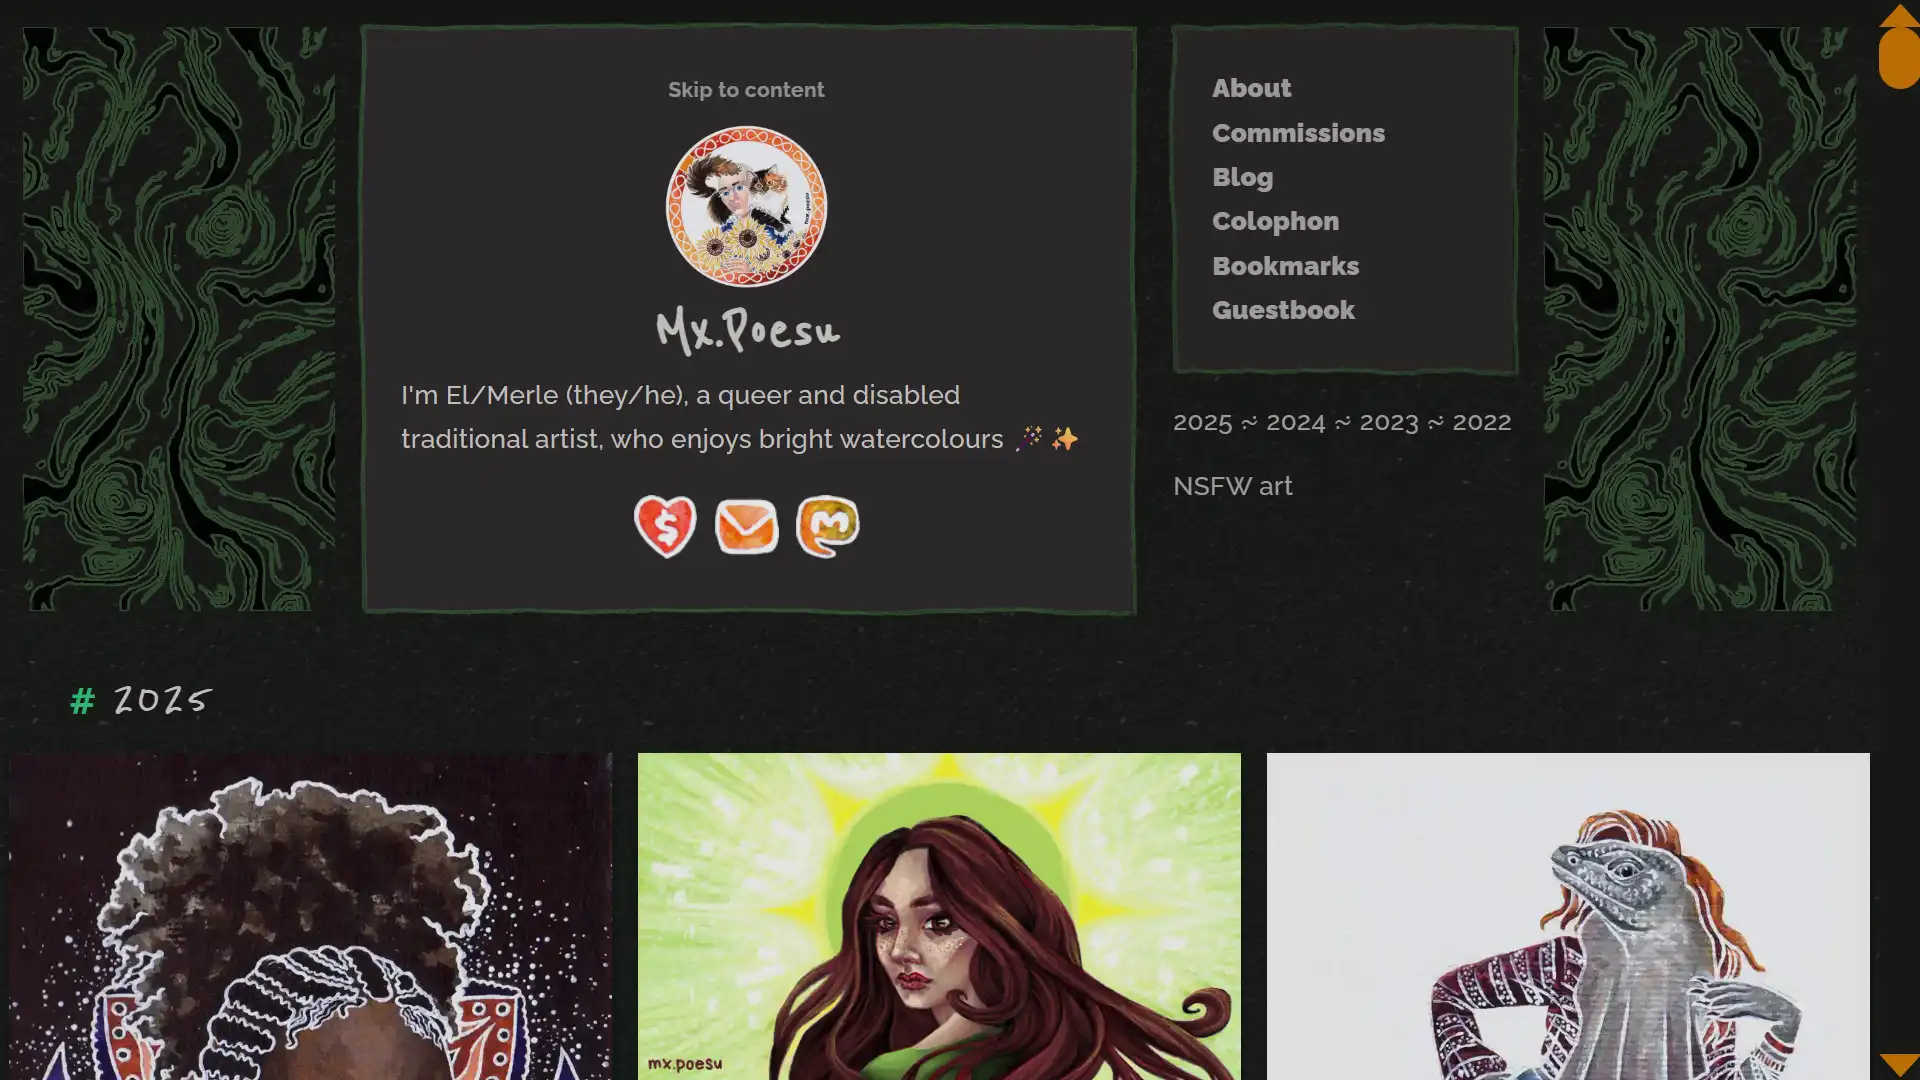
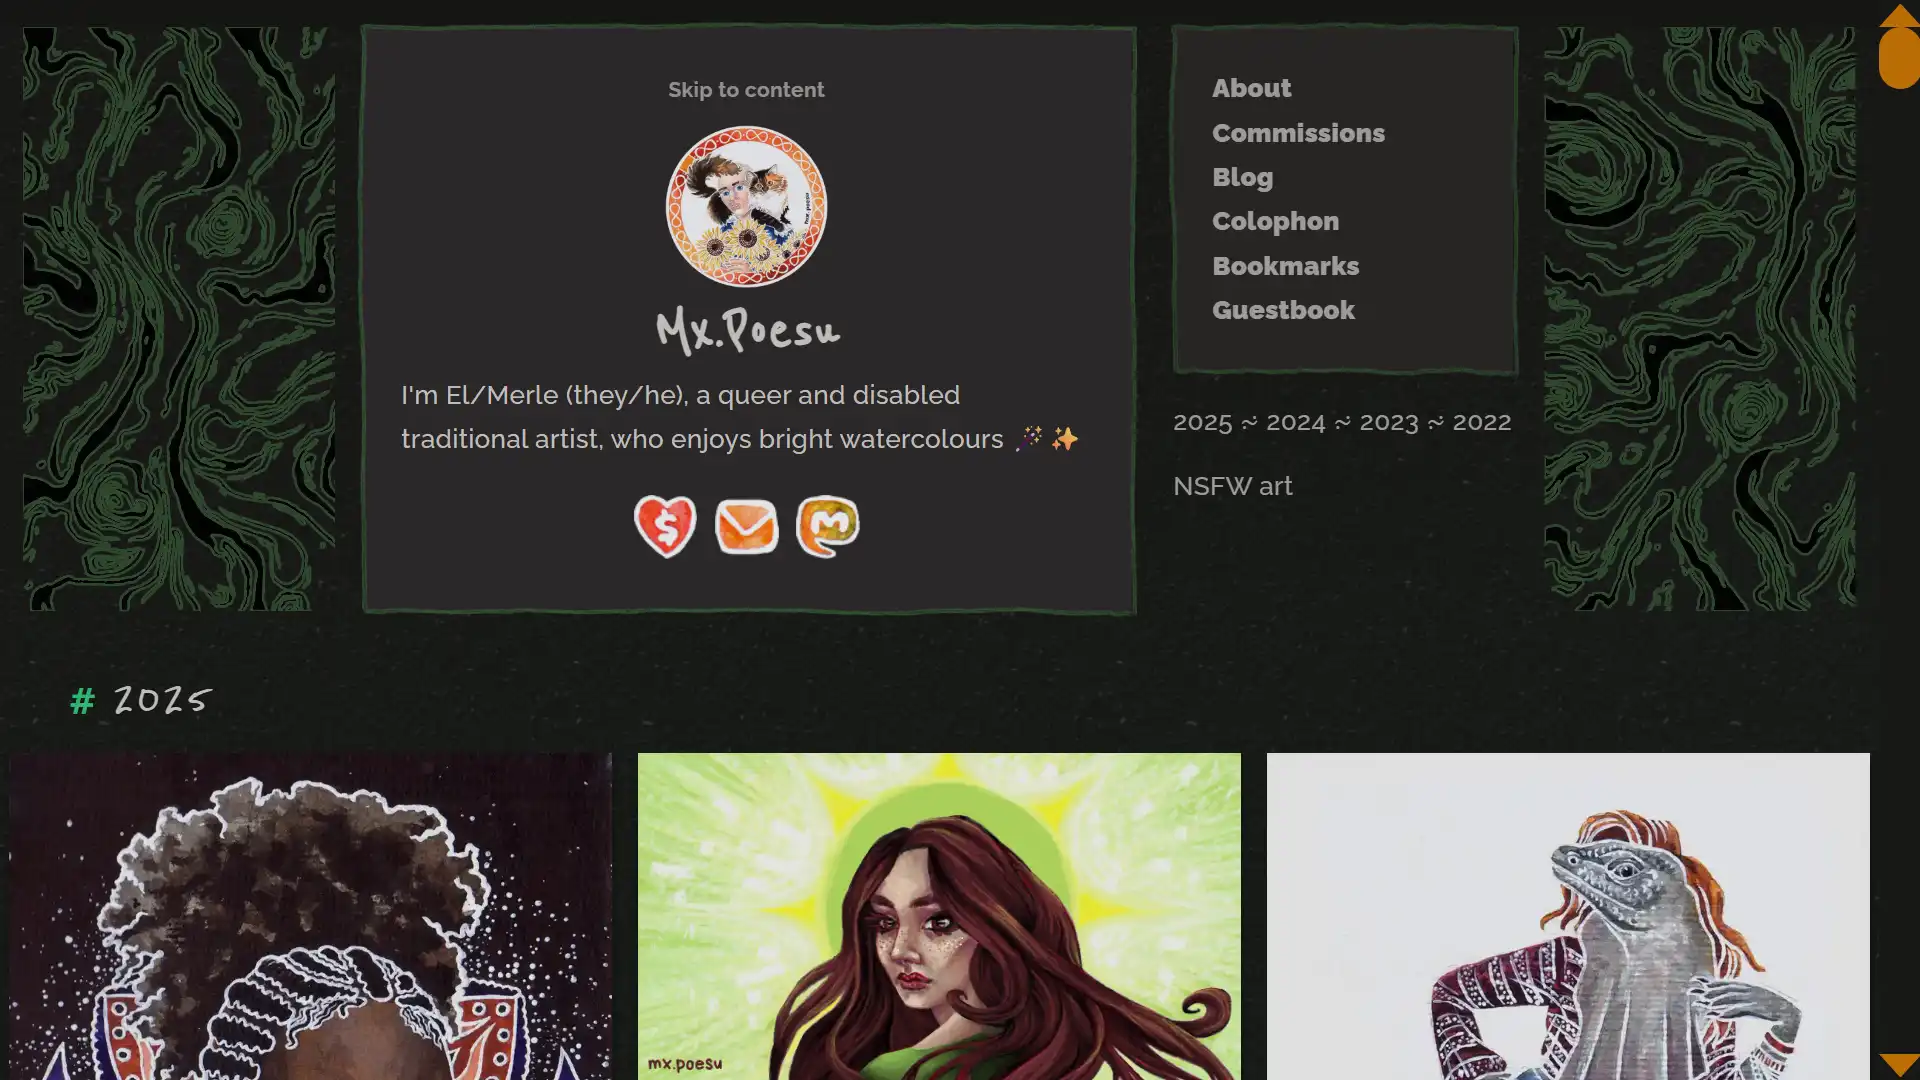
Mirror image

Changed region(s): [[0.7812, 0.0306, 0.9688, 0.5806]]

diff --git a/style.css b/style.css
@@ -212,9 +212,8 @@ html {
 	}
 	
 	#a-right {
-		rotate: 180deg; 
-		-webkit-transform: scaleX(-1);
-		transform: scaleX(-1);
+		background-position: right bottom;
+		rotate: 180deg;
 	}
 	
 	.divider {
